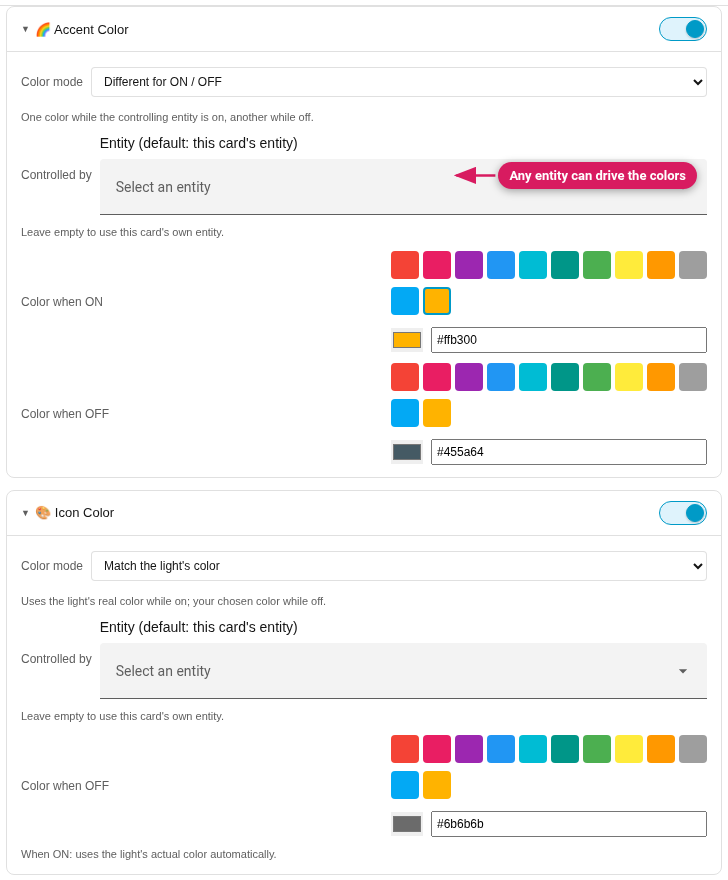
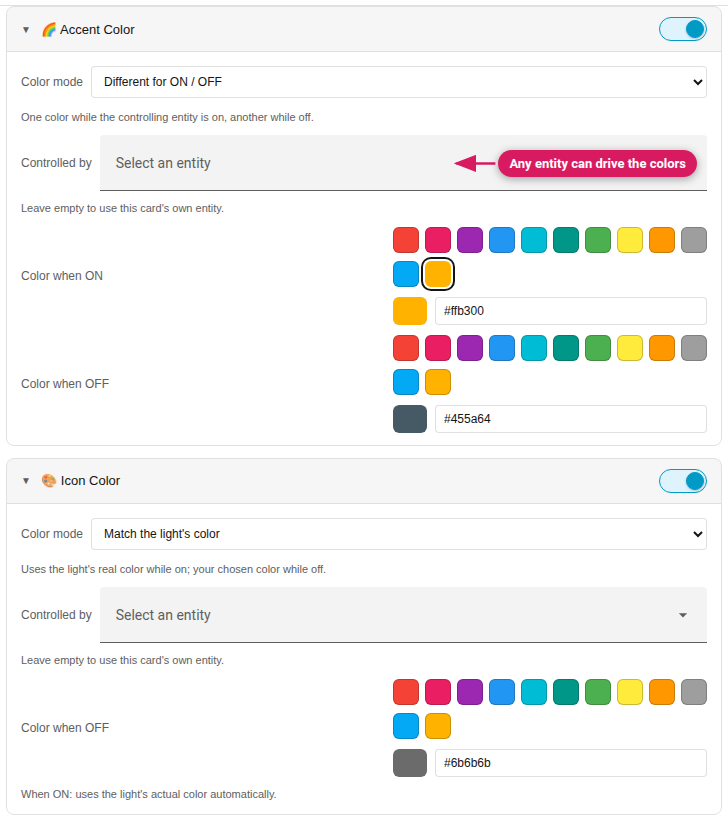
v0.10.0: entity rows show friendly names; README screenshots regenerated
- Entities rows module receives hass and labels each row like HA does:
  explicit name, then the entity's friendly name, then the object id
  (rows used to read "outside_temperature" instead of "Outside
  Temperature").
- README screenshots regenerated from the real HA 2026.9.4 + UIX 8.3.1
  dialog with the v0.10.0 UI. readme_shots.mjs: positional row keys
  (the per-row shot had silently rendered nothing since the #24 fix),
  insideRight annotations honour shiftX, shot 04 hides the modules
  below its hanging label.

Claude-Session: https://claude.ai/code/session_01Moef7BwiGuE8k5a8bwyqW9

diff --git a/src/modules/module-entities-rows.ts b/src/modules/module-entities-rows.ts
@@ -1,6 +1,6 @@
 import { LitElement, html, css, nothing } from 'lit';
 import { property, state } from 'lit/decorators.js';
-import type { EntitiesCardRow, EntitiesRowStyle, EntitiesRowStyles, ThresholdRule } from '../types/index.js';
+import type { EntitiesCardRow, EntitiesRowStyle, EntitiesRowStyles, HomeAssistant, ThresholdRule } from '../types/index.js';
 import { moduleStyles, renderOverrideHint, onHeaderKeydown } from './module-base.js';
 import { getCachedPalette } from '../utils/palette-storage.js';
 import { findRowExtraCssConflicts } from '../utils/style-conflicts.js';
@@ -22,6 +22,8 @@ export class EntitiesRowsModule extends LitElement {
    *  studio-state.ts. Two rows may share an entity_id (valid entities-card
    *  YAML) and must keep independent style slots (ROADMAP #24). */
   @property({ attribute: false }) styles: EntitiesRowStyles = {};
+  /** Only used for row labels (friendly names); rows render without it. */
+  @property({ attribute: false }) hass?: HomeAssistant;
 
   /** Open sections, by the same positional row key as `styles`. */
   @state() private _openRows = new Set<string>();
@@ -257,7 +259,10 @@ export class EntitiesRowsModule extends LitElement {
   private _renderRow(row: EntitiesCardRow & { entity: string }, index: number, occurrence: number) {
     const rowKey = String(index);
     const id = row.entity;
-    const baseLabel = row.name || id.split('.')[1] || id;
+    // Same precedence as HA's own row: explicit `name:`, then the entity's
+    // friendly name, then the object id as a last resort.
+    const friendly = this.hass?.states?.[id]?.attributes?.friendly_name;
+    const baseLabel = row.name || (typeof friendly === 'string' && friendly) || id.split('.')[1] || id;
     const label = occurrence > 1 ? `${baseLabel} (${occurrence})` : baseLabel;
     const isOpen = this._openRows.has(rowKey);
     const rowStyle = this.styles[rowKey] ?? { iconColor: '', textColor: '' };

diff --git a/src/editor/cms-child-card-section.ts b/src/editor/cms-child-card-section.ts
@@ -258,6 +258,7 @@ export class CmsChildCardSection extends LitElement {
               preserved exactly as written.`}
       </div>${c.type === 'entities'
         ? html`<div class="child-body"><cms-entities-rows-module
+            .hass=${this.hass}
             .rows=${(c as unknown as { entities?: EntitiesCardRow[] }).entities ?? []}
             .styles=${this._entityRowStyles}
             @styles-changed=${this._onRowStylesChanged}
@@ -389,6 +390,7 @@ export class CmsChildCardSection extends LitElement {
 
         ${isEntities
           ? html`<cms-entities-rows-module
+              .hass=${this.hass}
               .rows=${(c as unknown as { entities?: EntitiesCardRow[] }).entities ?? []}
               .styles=${this._entityRowStyles}
               @styles-changed=${this._onRowStylesChanged}

diff --git a/src/editor/cms-panel.ts b/src/editor/cms-panel.ts
@@ -1127,6 +1127,7 @@ export class CmsPanel extends LitElement {
   private _renderEntityRowsModule() {
     return this.config?.type === 'entities'
       ? html`<cms-entities-rows-module
+            .hass=${this.hass}
             .rows=${(this.config as unknown as { entities?: EntitiesCardRow[] }).entities ?? []}
             .styles=${this._entityRowStyles}
             @styles-changed=${this._onEntityRowStylesChanged}
